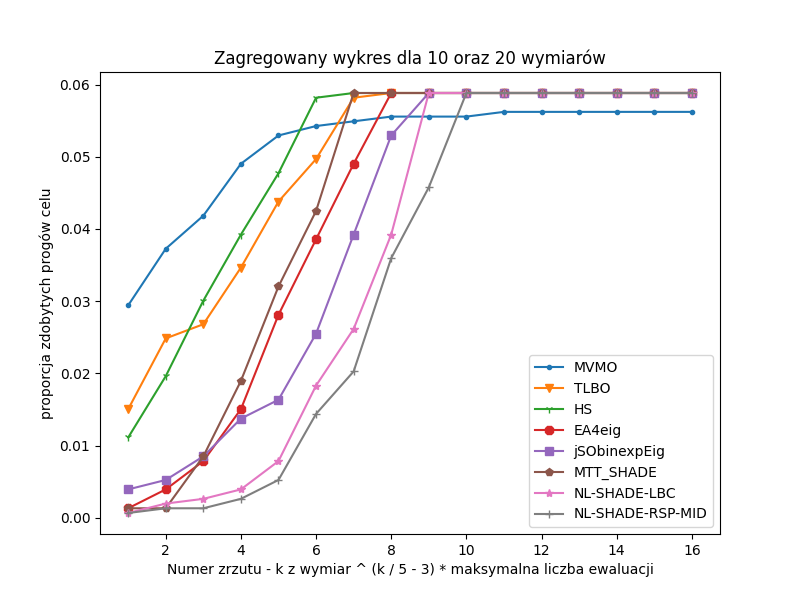
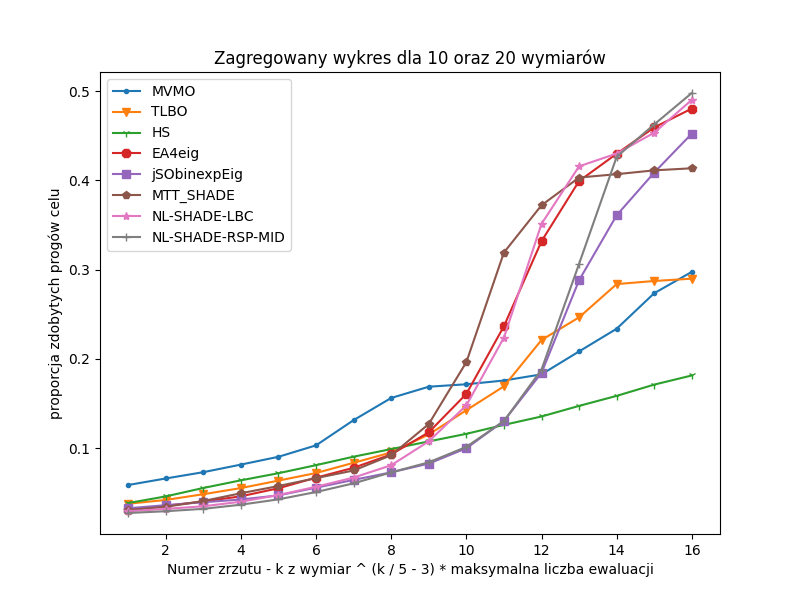
fix: ecdf agg

diff --git a/results_generating/ecdf_agg.py b/results_generating/ecdf_agg.py
@@ -112,7 +112,7 @@ def get_log_range_result(algorithm, dims):
             result_df = result_df.iloc[:16, :]
             result_df = result_df.applymap(log_range_achieved)
             agg_result_df = pd.concat([agg_result_df, result_df], axis=1)
-    return result_df.apply(lambda x: sum(x) / (len(x) * 51), axis=1).tolist()
+    return agg_result_df.apply(lambda x: sum(x) / (len(x) * 51), axis=1).tolist()
 
 
 for dims in [['10', '20'], ['10'], ['20']]:
